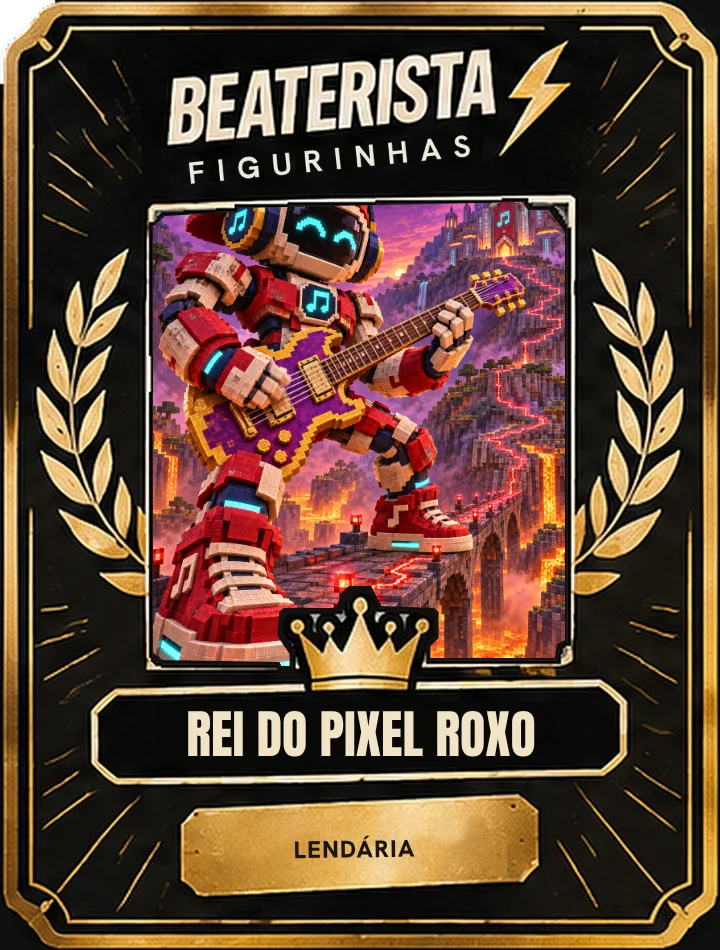
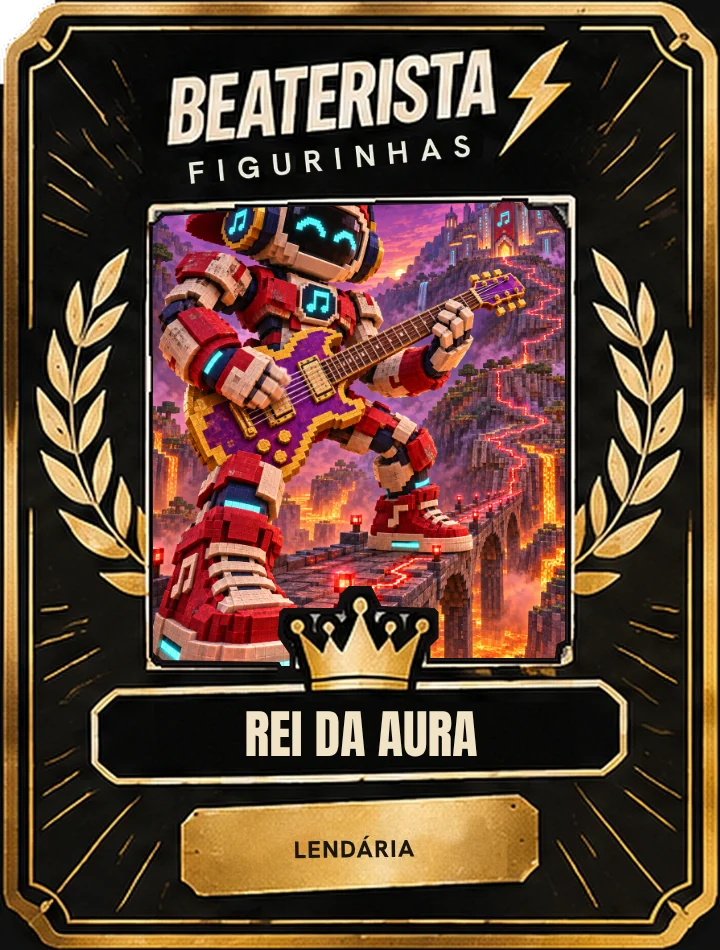
Lendária 2 renomeada para Rei da Aura (v470)
Claude-Session: https://claude.ai/code/session_017Ekti4pdX5hfPZ1nPnv9xj

Changed region(s): [[0.2444, 0.7326, 0.7639, 0.7937]]

diff --git a/js/figurinhas/lendarias.js b/js/figurinhas/lendarias.js
@@ -2,7 +2,7 @@
 // A pessoa tem uma lendária quando o código dela está em `state.lend` (entregue pelo resgate aprovado pela Bea).
 export const LENDARIAS = [
   { codigo: 'L01', nome: 'Guitarrista da Tempestade', img: 'assets/figurinhas/lendarias/L01.webp' },
-  { codigo: 'L02', nome: 'Rei do Pixel Roxo', img: 'assets/figurinhas/lendarias/L02.webp' },
+  { codigo: 'L02', nome: 'Rei da Aura', img: 'assets/figurinhas/lendarias/L02.webp' },
   { codigo: 'L03', nome: 'Construtor de Notas', img: 'assets/figurinhas/lendarias/L03.webp' },
   { codigo: 'L04', nome: 'Baterista Cósmico', img: 'assets/figurinhas/lendarias/L04.webp' },
   { codigo: 'L05', nome: 'Sineiro do Castelo', img: 'assets/figurinhas/lendarias/L05.webp' },

diff --git a/sw.js b/sw.js
@@ -1,5 +1,5 @@
 // Service worker: cacheia só o "casco" do app (código + marca). Nenhum dado do usuário passa por aqui.
-const VERSION = 'beaterista-v469';
+const VERSION = 'beaterista-v470';
 const SHELL = [
   'js/paulta/livre.js', 'js/dicas-aluno.js',
   'js/paulta/mapa.js',

diff --git a/PASSAGEM.md b/PASSAGEM.md
@@ -556,4 +556,4 @@ No ar em jogos.beaterista.com.br: aba Estudos, Tocar com 4 instrumentos, figuras
 - **Check-in da semana** (v467): entrar no Álbum **7 dias seguidos** dá 1 pacote com **1 exclusiva da Bea (fotos F0xx)** + **10 ★** + festa neon; faltou um dia, recomeça. Lógica pura `checkinSemana` em `album-logic.js` (estado `state.sem`), faixa de 7 bolinhas na tela Pacotes. Teste: `tests/checkin-semana.test.mjs`. **Festa LED neon** (`js/paulta/festa.js`, estilos no fim de `css/kids.css`) e **cartões do Paul em azul colorido com luz** (`css/paul-dicas.css`).
 - **Resgate por print: SQL escrito, NÃO aplicado** (`supabase/015_resgates_print.sql`): tabela `resgates_print` (print privado em base64, apagado ao aprovar/recusar), RPCs `resgate_enviar`, `resgate_minhas`, `resgate_entregar`; a Bea lê/atualiza pelo login (`is_allowed()`). A aplicação no projeto `beaterista-app` não foi confirmada (o Supabase pediu uma confirmação que ninguém respondeu a tempo). **Falta**: aplicar o SQL, tela do aluno (enviar print das missões Google/YouTube/amigo e da lendária), tela de aprovação da Bea e a notificação ao abrir o app.
 - **Ajustes (v468)**: festa neon só em **azul, roxo e vermelho** (sem verde) e também ao concluir **outros mundos** da pauLta (não só os modos da bateria); o card da arte do Paul abre a arte inteira ao tocar e dá **1 ★ só na 1ª vez de cada arte** (`estrelaDaArte` em `js/paul-dicas.js`, por aluno). Teste: `tests/e2e/arte-estrela.mjs`.
-- **5 figurinhas Lendárias criadas** (v469, arte da Bea): modelo preto e dourado (M7) com o selo escrito **LENDÁRIA** (`seloTexto` em `postar.js`/`selo-team.js`), cartas prontas em `assets/figurinhas/lendarias/L01..L05.webp` (Guitarrista da Tempestade, Rei do Pixel Roxo, Construtor de Notas, Baterista Cósmico, Sineiro do Castelo — nomes sugeridos). Aba **Lendárias** do Álbum mostra as 5 trancadas; clicar abre inteira. Dono de uma lendária = código em `state.lend` (`js/figurinhas/lendarias.js`, `darLendaria`); **a entrega vem do resgate por print aprovado pela Bea (ainda não construído, depende do SQL 015)**. Teste: `tests/e2e/lendarias.mjs`.
+- **5 figurinhas Lendárias criadas** (v469, arte da Bea): modelo preto e dourado (M7) com o selo escrito **LENDÁRIA** (`seloTexto` em `postar.js`/`selo-team.js`), cartas prontas em `assets/figurinhas/lendarias/L01..L05.webp` (Guitarrista da Tempestade, Rei da Aura, Construtor de Notas, Baterista Cósmico, Sineiro do Castelo — nomes sugeridos). Aba **Lendárias** do Álbum mostra as 5 trancadas; clicar abre inteira. Dono de uma lendária = código em `state.lend` (`js/figurinhas/lendarias.js`, `darLendaria`); **a entrega vem do resgate por print aprovado pela Bea (ainda não construído, depende do SQL 015)**. Teste: `tests/e2e/lendarias.mjs`.
